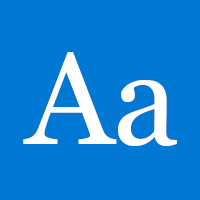
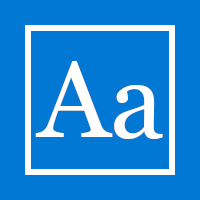
StyledButton: snapToPixel is default
Added more styles
Added and updated ui buttons, css

diff --git a/src/main/resources/css/visual.css b/src/main/resources/css/visual.css
@@ -1,6 +1,18 @@
 @import url('https://fonts.googleapis.com/css2?family=Kanit:ital,wght@0,100;0,200;0,300;0,400;0,500;0,600;0,700;0,800;0,900;1,100;1,200;1,300;1,400;1,500;1,600;1,700;1,800;1,900&display=swap');
 @import url('https://fonts.googleapis.com/css2?family=IBM+Plex+Mono:ital@0;1&family=IBM+Plex+Sans+Condensed:ital@0;1&family=IBM+Plex+Sans:ital,wght@0,100;0,400;0,700;1,100;1,400;1,700&family=IBM+Plex+Serif:ital@0;1&display=swap');
 
+.ui-button {
+  -fx-border-radius: 0;
+  -fx-background-radius: 0;
+  -fx-background-color: whitesmoke;
+  -fx-border-color: gainsboro;
+  -fx-border-width: 1px;
+}
+
+.ui-button:hover {
+  -fx-background-color: gainsboro;
+}
+
 .area-button {
   -fx-background-radius: 0;
   -fx-border-radius: 0;
@@ -58,15 +70,35 @@
 }
 
 .scrollpane-button {
+  -fx-border-radius: 0;
+  -fx-background-radius: 0;
   -fx-background-color: white;
   -fx-border-color: gainsboro;
   -fx-border-width: 1px;
   -fx-border-insets: -1px;
+  -fx-padding: 0px;
 }
 
 .scrollpane-button:hover {
-  -fx-background-color: gainsboro;
+  -fx-background-color: whitesmoke;
 }
+
+.scrollpane-button-child {
+  -fx-background-color: rgba(0, 0, 0, 0);
+  -fx-border-radius: 0;
+  -fx-background-radius: 0;
+  /* -fx-border-color: gainsboro;
+  -fx-border-width: 1px;
+  -fx-border-insets: 0px;
+
+  -fx-font-weight: 400;
+  -fx-font-size: 12;
+  -fx-font-family: 'IBM Plex Sans', sans-serif; */
+}
+
+/* .scrollpane-button-child:hover {
+  -fx-border-color: white;
+} */
 
 .transparent_button {
   -fx-background-color: rgba(0, 0, 0, 0);
@@ -75,6 +107,10 @@
   -fx-border-width: 2px;
   -fx-border-insets: 5px;
   -fx-border-color: white;
+}
+
+.transparent_button:hover {
+  -fx-background-color: rgba(0, 0, 0, 0);
 }
 
 .inset-object {

diff --git a/src/main/resources/css/defaults.css b/src/main/resources/css/defaults.css
@@ -1,0 +1,27 @@
+* {
+  -fx-font-family: 'IBM Plex Sans', sans-serif;
+}
+
+.scroll-pane {
+  -fx-padding: 0;
+  -fx-border-width: 1px;
+  /* -fx-border-color: gainsboro; */
+  -fx-border-insets: -1px;
+  -fx-background-color: transparent;
+}
+
+/* .button {
+  -fx-border-radius: 0;
+  -fx-background-radius: 0;
+  -fx-background-color: whitesmoke;
+  -fx-border-color: gainsboro;
+  -fx-border-width: 1px;
+
+  -fx-font-weight: 400;
+  -fx-font-size: 12;
+  -fx-font-family: 'IBM Plex Sans', sans-serif;
+}
+
+.button:hover {
+  -fx-background-color: gainsboro;
+} */

diff --git a/src/main/java/xkv/visual/controls/StyledButton.java b/src/main/java/xkv/visual/controls/StyledButton.java
@@ -1,8 +1,6 @@
 package xkv.visual.controls;
 
-import javafx.animation.FadeTransition;
 import javafx.scene.control.Button;
-import javafx.util.Duration;
 import xkv.visual.css.FadeButtonSkin;
 import xkv.visual.css.IStylable;
 
@@ -11,11 +9,12 @@ public class StyledButton extends Button implements IStylable
     public StyledButton(String text)
     {
         super(text);
+        setSnapToPixel(true);
     }
 
     public StyledButton()
     {
-
+        setSnapToPixel(true);
     }
 
     public StyledButton square(double width)

diff --git a/src/main/java/xkv/visual/css/Style.java b/src/main/java/xkv/visual/css/Style.java
@@ -6,7 +6,7 @@ public enum Style
 {
     DEBUG("debug"), SHADOW("shadow"), SMALL_SHADOW("small_shadow"), INSET("inset-object"), BSP_BUTTON("bsp-button"),
     TITLE_BOLD("title-bold"), SUBTITLE("subtitle"), WHITE("white"), SCROLLPANE_BUTTON("scrollpane-button"),
-    SQUARE("square");
+    SQUARE("square"), SPBC("scrollpane-button-child"), UI_BUTTON("ui-button");
 
     private final String style;
 
